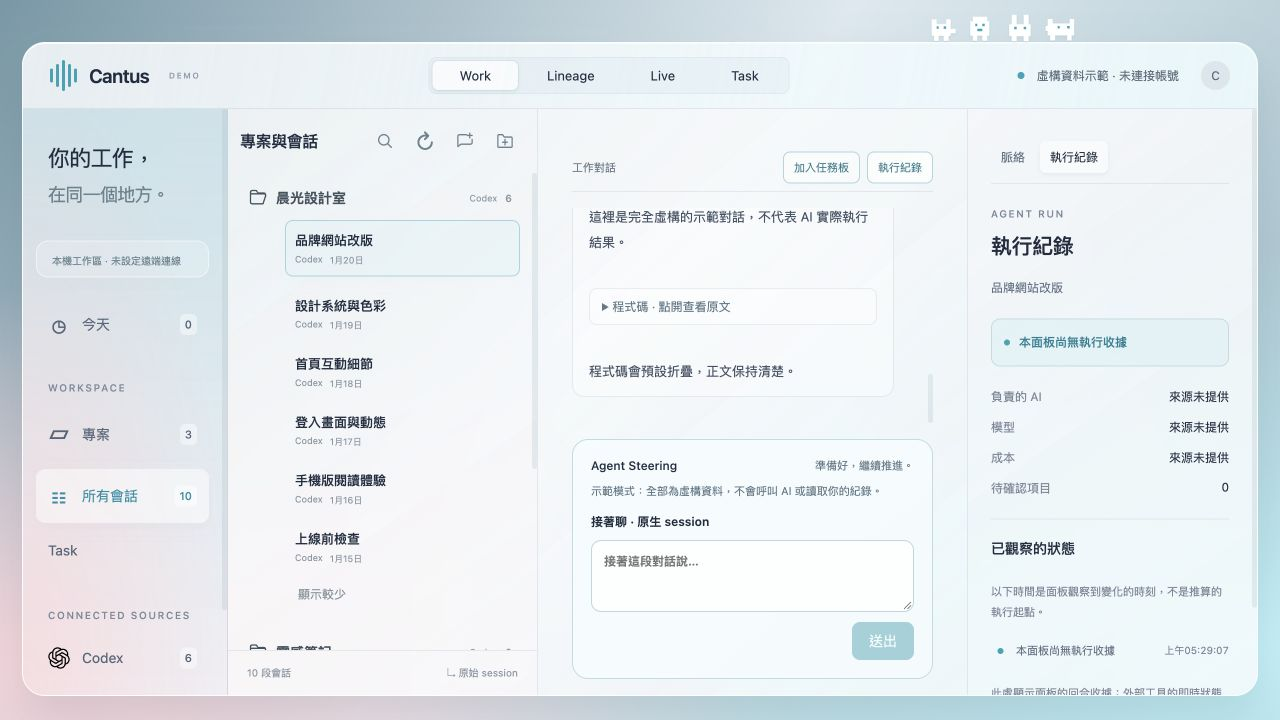
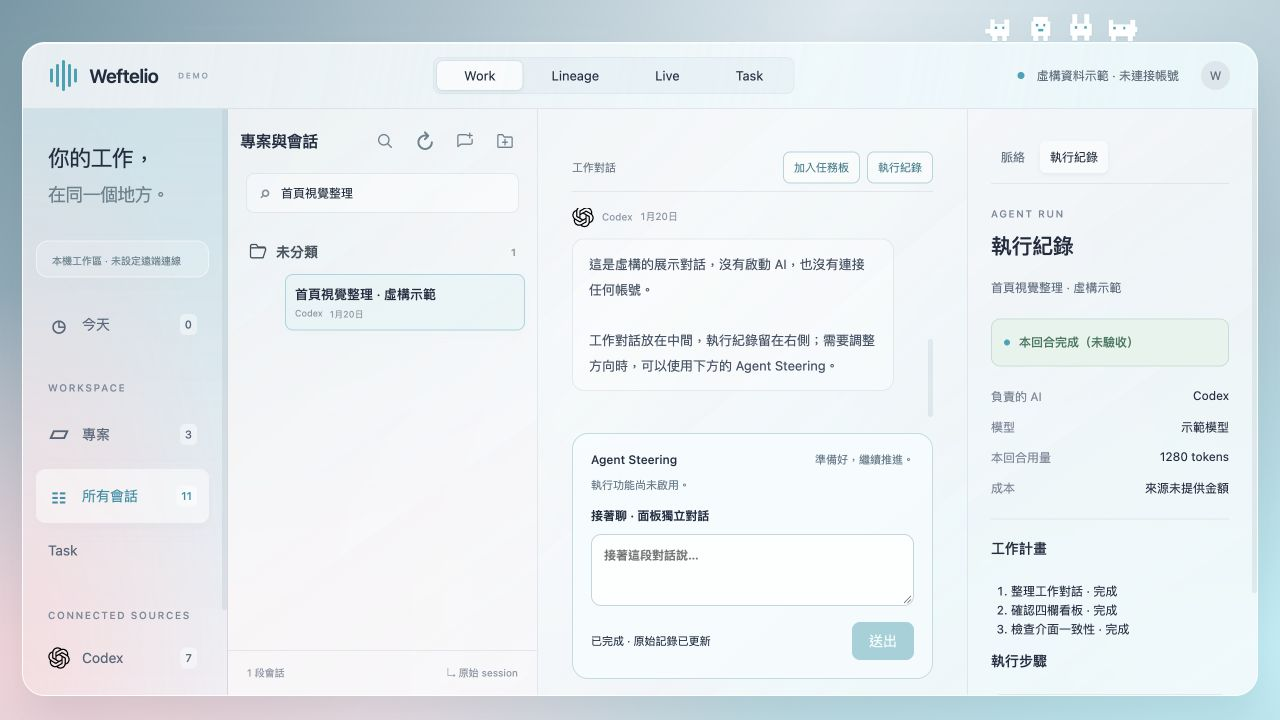
Rename the project to Weftelio and refresh all showcase images

diff --git a/cloud/login.html b/cloud/login.html
@@ -4,7 +4,7 @@
   <meta charset="utf-8">
   <meta name="viewport" content="width=device-width,initial-scale=1">
   <meta name="theme-color" content="#e9f1f3">
-  <title>Cantus · 登入</title>
+  <title>Weftelio · 登入</title>
   <link rel="stylesheet" href="/login.css">
 </head>
 <body>
@@ -13,14 +13,14 @@
   <main class="entry">
     <header class="brand">
       <div class="brand-mark" aria-hidden="true"><svg xmlns="http://www.w3.org/2000/svg" viewBox="0 0 96 157" role="img" aria-labelledby="title desc" shape-rendering="geometricPrecision">
-  <title id="title">Cantus one-colour panel 04 mark</title>
-  <desc id="desc">The selected Cadence Weave silhouette in Cantus teal.</desc>
+  <title id="title">Weftelio one-colour panel 04 mark</title>
+  <desc id="desc">The selected Cadence Weave silhouette in Weftelio teal.</desc>
   <path d="M 39.852 4.033 C 41.001 4.116 41.880 5.920 42.319 7.466 C 42.757 9.013 42.523 11.364 42.483 13.312 C 42.442 15.261 42.607 17.380 42.076 19.157 C 41.546 20.933 40.513 22.594 39.300 23.970 C 38.087 25.347 36.390 26.453 34.798 27.414 C 33.206 28.376 31.434 28.970 29.748 29.740 C 28.063 30.509 26.223 30.957 24.685 32.032 C 23.148 33.108 21.581 34.649 20.523 36.194 C 19.466 37.739 18.833 39.514 18.340 41.303 C 17.846 43.092 17.626 45.213 17.562 46.927 C 17.497 48.641 17.133 51.067 17.951 51.587 C 18.769 52.107 20.855 50.638 22.467 50.048 C 24.080 49.458 25.801 48.467 27.628 48.047 C 29.454 47.628 31.465 47.610 33.427 47.531 C 35.388 47.452 37.470 47.396 39.397 47.574 C 41.323 47.752 43.197 48.078 44.985 48.599 C 46.774 49.120 48.457 49.894 50.128 50.700 C 51.798 51.507 53.342 52.619 55.008 53.436 C 56.674 54.252 58.397 54.933 60.125 55.599 C 61.853 56.266 63.568 56.965 65.377 57.436 C 67.186 57.907 69.059 58.275 70.980 58.427 C 72.900 58.579 75.049 58.695 76.900 58.347 C 78.750 58.000 80.412 57.120 82.082 56.342 C 83.753 55.565 85.407 54.251 86.922 53.680 C 88.436 53.109 90.407 52.128 91.170 52.916 C 91.933 53.704 91.482 56.507 91.500 58.409 C 91.517 60.311 91.816 62.563 91.273 64.328 C 90.729 66.093 89.538 67.741 88.240 69.000 C 86.943 70.258 85.172 71.135 83.487 71.879 C 81.802 72.622 79.953 73.049 78.129 73.462 C 76.306 73.874 74.410 74.349 72.546 74.355 C 70.683 74.361 68.809 73.821 66.948 73.500 C 65.086 73.179 63.172 72.936 61.379 72.427 C 59.585 71.919 57.872 71.215 56.186 70.448 C 54.499 69.680 52.937 68.612 51.260 67.821 C 49.584 67.030 47.886 66.290 46.126 65.699 C 44.367 65.108 42.554 64.621 40.703 64.275 C 38.852 63.929 36.896 63.575 35.019 63.625 C 33.142 63.675 31.236 64.154 29.442 64.572 C 27.648 64.991 25.917 66.328 24.257 66.138 C 22.598 65.948 21.013 64.517 19.485 63.432 C 17.957 62.348 16.515 60.808 15.090 59.629 C 13.664 58.450 12.319 57.605 10.932 56.359 C 9.544 55.114 7.966 53.650 6.766 52.157 C 5.566 50.663 4.275 49.179 3.731 47.400 C 3.187 45.621 3.517 43.462 3.500 41.483 C 3.483 39.504 3.327 37.402 3.630 35.524 C 3.934 33.645 4.672 31.947 5.323 30.212 C 5.973 28.477 6.580 26.722 7.531 25.114 C 8.483 23.506 9.729 21.987 11.032 20.564 C 12.335 19.141 13.835 17.740 15.350 16.574 C 16.865 15.409 18.466 14.418 20.120 13.573 C 21.774 12.727 23.553 12.184 25.274 11.500 C 26.995 10.816 28.754 10.223 30.445 9.467 C 32.137 8.711 33.855 7.872 35.422 6.966 C 36.990 6.060 38.702 3.949 39.852 4.033 Z" fill="#00AEB9"/>
   <path d="M 4.222 62.392 C 4.901 62.159 6.348 64.744 7.608 66.047 C 8.867 67.349 10.390 68.904 11.779 70.207 C 13.168 71.510 15.157 72.415 15.941 73.864 C 16.725 75.313 16.333 77.172 16.482 78.902 C 16.631 80.632 16.059 83.516 16.835 84.245 C 17.611 84.974 19.616 83.863 21.136 83.275 C 22.657 82.687 24.249 81.343 25.958 80.715 C 27.667 80.087 29.567 79.852 31.393 79.507 C 33.218 79.162 35.071 78.646 36.911 78.645 C 38.751 78.644 40.597 79.178 42.432 79.500 C 44.267 79.822 46.153 80.068 47.921 80.576 C 49.690 81.083 51.341 81.873 53.041 82.544 C 54.741 83.216 56.413 83.955 58.123 84.603 C 59.833 85.252 61.516 85.965 63.299 86.436 C 65.083 86.907 66.925 87.264 68.824 87.427 C 70.723 87.591 72.809 87.618 74.694 87.415 C 76.578 87.211 78.429 86.865 80.128 86.207 C 81.827 85.549 83.468 84.451 84.887 83.469 C 86.305 82.486 87.626 80.265 88.639 80.312 C 89.652 80.358 90.507 82.241 90.967 83.750 C 91.427 85.259 91.515 87.522 91.399 89.365 C 91.283 91.209 91.119 93.201 90.273 94.811 C 89.427 96.421 87.777 97.856 86.323 99.025 C 84.870 100.194 83.229 101.099 81.552 101.825 C 79.875 102.552 78.121 103.118 76.263 103.385 C 74.405 103.652 72.305 103.581 70.406 103.427 C 68.506 103.274 66.679 102.873 64.869 102.466 C 63.059 102.059 61.283 101.570 59.547 100.985 C 57.811 100.400 56.152 99.629 54.453 98.953 C 52.755 98.277 51.097 97.504 49.357 96.928 C 47.617 96.353 45.797 95.945 44.013 95.501 C 42.228 95.058 40.424 94.424 38.650 94.266 C 36.876 94.108 35.151 94.310 33.369 94.554 C 31.588 94.797 29.653 95.152 27.959 95.726 C 26.265 96.301 24.714 98.192 23.205 98.000 C 21.697 97.807 20.317 95.584 18.907 94.572 C 17.496 93.561 16.210 91.938 14.743 91.930 C 13.276 91.922 11.562 93.477 10.105 94.525 C 8.648 95.572 7.075 97.838 6.003 98.215 C 4.931 98.593 4.089 97.963 3.672 96.789 C 3.255 95.616 3.529 93.099 3.500 91.174 C 3.471 89.249 3.500 87.218 3.500 85.239 C 3.500 83.261 3.500 81.283 3.500 79.304 C 3.500 77.326 3.494 75.345 3.500 73.369 C 3.506 71.393 3.416 69.275 3.536 67.446 C 3.657 65.616 3.543 62.625 4.222 62.392 Z" fill="#00AEB9"/>
   <path d="M 15.776 105.292 C 16.777 105.618 16.991 108.356 17.464 110.069 C 17.936 111.783 17.991 113.846 18.612 115.574 C 19.233 117.303 20.024 119.041 21.188 120.443 C 22.352 121.844 24.043 122.967 25.597 123.985 C 27.150 125.004 28.925 125.588 30.510 126.555 C 32.095 127.521 33.761 128.501 35.106 129.785 C 36.452 131.070 37.706 132.642 38.583 134.260 C 39.460 135.879 40.051 137.638 40.370 139.498 C 40.690 141.358 40.528 143.528 40.500 145.421 C 40.472 147.314 40.894 150.126 40.203 150.857 C 39.512 151.589 37.790 150.434 36.353 149.810 C 34.917 149.185 33.199 147.991 31.587 147.109 C 29.975 146.227 28.332 145.346 26.682 144.519 C 25.032 143.693 23.330 142.990 21.686 142.150 C 20.041 141.310 18.414 140.429 16.814 139.480 C 15.215 138.531 13.570 137.658 12.089 136.458 C 10.608 135.258 9.090 133.779 7.926 132.281 C 6.763 130.784 5.818 129.164 5.106 127.472 C 4.393 125.781 3.789 123.959 3.652 122.132 C 3.515 120.304 3.637 118.209 4.284 116.507 C 4.932 114.805 6.340 113.318 7.536 111.919 C 8.731 110.520 10.086 109.219 11.459 108.114 C 12.833 107.010 14.775 104.966 15.776 105.292 Z" fill="#00AEB9"/>
   <path d="M 32.582 105.899 C 33.067 105.320 35.794 106.216 37.533 106.504 C 39.272 106.791 41.254 107.094 43.017 107.624 C 44.781 108.154 46.457 108.893 48.112 109.685 C 49.767 110.476 51.296 111.572 52.947 112.373 C 54.598 113.175 56.314 113.819 58.017 114.495 C 59.720 115.170 61.384 115.939 63.165 116.427 C 64.945 116.916 66.796 117.262 68.699 117.427 C 70.602 117.593 72.691 117.612 74.584 117.420 C 76.477 117.227 78.350 116.919 80.057 116.270 C 81.764 115.622 83.412 114.511 84.827 113.528 C 86.242 112.545 87.612 110.308 88.548 110.373 C 89.483 110.438 89.972 112.422 90.441 113.917 C 90.910 115.412 91.368 117.523 91.361 119.342 C 91.355 121.161 91.128 123.172 90.402 124.833 C 89.676 126.494 88.342 128.046 87.005 129.308 C 85.669 130.570 84.022 131.595 82.382 132.405 C 80.742 133.216 79.000 133.838 77.166 134.173 C 75.332 134.507 73.265 134.530 71.377 134.412 C 69.488 134.294 67.643 133.878 65.834 133.463 C 64.025 133.048 62.230 132.590 60.524 131.922 C 58.817 131.255 57.193 130.389 55.596 129.457 C 54.000 128.524 52.429 127.529 50.943 126.329 C 49.458 125.129 48.127 123.538 46.682 122.255 C 45.238 120.972 43.615 119.970 42.277 118.632 C 40.939 117.294 39.930 115.669 38.654 114.227 C 37.379 112.784 35.635 111.366 34.623 109.978 C 33.611 108.590 32.097 106.478 32.582 105.899 Z" fill="#00AEB9"/>
 </svg></div>
-      <h1>Cantus</h1>
+      <h1>Weftelio</h1>
       <p class="brand-line">眾聲並作，所託如一</p>
     </header>
     <section class="welcome" aria-labelledby="welcome-title">
@@ -28,7 +28,7 @@
       <p>你的工作，在同一個地方。</p>
     </section>
     <div class="parade-track" aria-hidden="true"><div class="creature-parade"></div></div>
-    <section class="login-card" aria-label="登入 Cantus">
+    <section class="login-card" aria-label="登入 Weftelio">
       <div class="card-heading"><span class="entry-icon" aria-hidden="true">↗</span><span>開啟你的工作空間</span><span class="entry-caption">PRIVATE WORKSPACE</span></div>
       <form>
         <label for="user">帳號</label>

diff --git a/index.html b/index.html
@@ -1,7 +1,7 @@
-<!doctype html><html lang="zh-Hant"><head><meta charset="utf-8"><meta name="viewport" content="width=device-width,initial-scale=1"><title>Cantus · 眾聲並作</title><link rel="stylesheet" href="/style.css"></head><body>
-<div class="app"><header><div class="wordmark"><span class="sound"><i></i><i></i><i></i><i></i><i></i></span>Cantus<span class="edition">WEB PREVIEW</span></div><div class="tabs" role="tablist"><button class="active" id="work">Work</button><button id="lineage">Lineage</button><button id="live">Live</button></div><div class="connection"><span class="dot"></span><span id="connection">正在讀取本機</span><span class="avatar">C</span></div></header>
+<!doctype html><html lang="zh-Hant"><head><meta charset="utf-8"><meta name="viewport" content="width=device-width,initial-scale=1"><title>Weftelio · 眾聲並作</title><link rel="stylesheet" href="/style.css"></head><body>
+<div class="app"><header><div class="wordmark"><span class="sound"><i></i><i></i><i></i><i></i><i></i></span>Weftelio<span class="edition">WEB PREVIEW</span></div><div class="tabs" role="tablist"><button class="active" id="work">Work</button><button id="lineage">Lineage</button><button id="live">Live</button></div><div class="connection"><span class="dot"></span><span id="connection">正在讀取本機</span><span class="avatar">W</span></div></header>
 <aside class="sidebar"><div class="intro">你的工作，<br><span>在同一個地方。</span></div><button class="nav" data-filter="today"><span>◷</span> 今天 <b id="todayCount">—</b></button><p class="label">WORKSPACE</p><button class="nav" data-filter="projects"><span>▱</span> 專案 <b id="projectCount">—</b></button><button class="nav active" data-filter="all"><span>☷</span> 所有會話 <b id="allCount">—</b></button><p class="label sources-label">CONNECTED SOURCES</p><button class="nav" data-filter="codex"><span class="provider-mark">C</span> Codex <b id="codexCount">—</b></button><button class="nav" data-filter="claude"><span class="provider-mark claude">✳</span> Claude <b id="claudeCount">—</b></button><div class="sidebar-bottom"><span class="dot"></span> 本機資料 · 原生續作<p>Many voices. One intent.</p></div></aside>
 <section class="list-pane"><div class="pane-heading"><div><p class="eyebrow">YOUR CONVERSATIONS</p><h2 id="listTitle">會話</h2></div><button class="icon-btn" id="refresh" title="重新讀取來源" aria-label="重新讀取來源">↻</button></div><label class="search"><span>⌕</span><input id="search" placeholder="搜尋會話、專案…" aria-label="搜尋會話"></label><div id="list" class="list"><div class="empty">正在連接原始會話…</div></div><footer><span id="listCount">讀取中</span><span>↳ 原始 session</span></footer></section>
-<main id="detail"><div class="welcome"><span class="hero-mark">C</span><p class="eyebrow">A QUIETER SPACE TO WORK</p><h1>讓每段對話，<br>回到你的工作裡。</h1><p>選擇左側的會話，查看原始對話記錄。<br>熟悉的面板，接上你已經做過的事。</p></div></main>
+<main id="detail"><div class="welcome"><span class="hero-mark">W</span><p class="eyebrow">A QUIETER SPACE TO WORK</p><h1>讓每段對話，<br>回到你的工作裡。</h1><p>選擇左側的會話，查看原始對話記錄。<br>熟悉的面板，接上你已經做過的事。</p></div></main>
 <aside class="inspector"><p class="eyebrow">CONNECTION & CONTEXT</p><h3>來源與脈絡</h3><div class="glass-card"><div class="computer"><span>▰</span></div><div><strong>本機工作區</strong><span class="badge">Local</span><p><span class="dot"></span> 本機原生連接</p></div></div><h4>已連接的來源</h4><div id="providers"></div><h4>目前會話</h4><div class="glass-card vertical" id="context"><p>選取會話後，這裡會顯示來源、專案與更新時間。</p></div><div class="privacy"><span>◇</span><div><strong>原始記錄留在原處</strong><p>不複製歷史。送出後由原工具續作並寫回同一 session；請勿在兩個視窗同時發訊。</p></div></div><details><summary>讀取範圍與限制</summary><div id="warnings"></div><p>目前接入 Codex、Claude 的本機記錄。其他 Desktop、雲端對話與遠端主機尚未接入。清單可能受讀取上限限制。</p></details></aside>
 </div><div id="toast" role="status"></div><link rel="stylesheet" href="/live.css"><script src="/platform-ui.js"></script><script src="/conversation-tree.js"></script><script src="/app.js"></script><script src="/routing-rules.js"></script><script src="/routing-ui.js"></script><script src="/native-ui.js"></script><script src="/live-ui.js"></script><link rel="stylesheet" href="/lineage.css"><script src="/pair-ui.js"></script><script src="/organize-ui.js"></script><script src="/lineage-ui.js"></script></body></html>

diff --git a/organize-ui.js b/organize-ui.js
@@ -1,4 +1,4 @@
-/* Cantus-only labels and virtual folders. Never rename or move source files. */
+/* Weftelio-only labels and virtual folders. Never rename or move source files. */
 (()=>{
  const editable=()=>window.cantusPlatform?.mode!=='cloud'||window.cantusPlatform.authenticated&&window.cantusPlatform.role==='editor';
  const menu=el('div','cantus-context-menu');menu.hidden=true;menu.setAttribute('role','menu');document.body.append(menu);
@@ -8,10 +8,10 @@
  document.addEventListener('cantus-platform-change',()=>{closeMenu();dialog.close();});document.addEventListener('cantus-login-expired',()=>{closeMenu();dialog.close();});
  async function edit({title,value='',action,id,folderId,endpoint,requester,onSaved}){
   if(!editable())return;const platform=window.cantusPlatform,generation=platform?.generation,request=requester||((url,options)=>(platform?.fetch||fetch)(url,options));
-  heading.textContent=title;field.replaceChildren();note.textContent='只修改 Cantus 顯示與分類，原始對話、專案及檔案不變。';error.textContent='';save.disabled=true;dialog.showModal();
+  heading.textContent=title;field.replaceChildren();note.textContent='只修改 Weftelio 顯示與分類，原始對話、專案及檔案不變。';error.textContent='';save.disabled=true;dialog.showModal();
   let graph,input;
   try{const response=await request(endpoint||'/api/lineage');graph=await response.json();if(!response.ok)throw Error(graph.error);if(generation!==platform?.generation||!dialog.open)return;
-   if(action==='moveFolder'){input=el('select');const original=el('option','','原始分類（不放入 Cantus 資料夾）');original.value='';input.append(original);for(const f of graph.folders||[]){const option=el('option','',f.name);option.value=f.id;input.append(option);}input.value=folderId||'';}
+   if(action==='moveFolder'){input=el('select');const original=el('option','','原始分類（不放入 Weftelio 資料夾）');original.value='';input.append(original);for(const f of graph.folders||[]){const option=el('option','',f.name);option.value=f.id;input.append(option);}input.value=folderId||'';}
    else{input=el('input');input.value=value;input.maxLength=action==='rename'?300:100;input.required=true;}
    input.setAttribute('aria-label',title);field.append(input);save.disabled=false;input.focus();input.select?.();
   }catch(e){error.textContent=e.message;return;}
@@ -25,10 +25,10 @@
  function show(e,choices){e.preventDefault();e.stopPropagation();menu.replaceChildren();for(const [label,run]of choices){const button=el('button','',label);button.type='button';button.setAttribute('role','menuitem');button.onclick=()=>{closeMenu();run();};menu.append(button);}menu.hidden=false;menu.style.left=Math.min(e.clientX,innerWidth-190)+'px';menu.style.top=Math.min(e.clientY,innerHeight-menu.offsetHeight-8)+'px';menu.firstChild?.focus();}
  document.addEventListener('contextmenu',e=>{
   if(!editable())return;const row=e.target.closest('.conversation-item'),group=e.target.closest('.conversation-group');
-  if(row){const session=catalog.sessions.find(s=>s.id===row.dataset.sessionId);if(!session)return;show(e,[['重新命名',()=>edit({title:'重新命名對話',value:name(session),action:'rename',id:session.id})],['移至資料夾',()=>edit({title:'移至 Cantus 資料夾',action:'moveFolder',id:session.id,folderId:session.cantusFolder?.id})]]);}
+  if(row){const session=catalog.sessions.find(s=>s.id===row.dataset.sessionId);if(!session)return;show(e,[['重新命名',()=>edit({title:'重新命名對話',value:name(session),action:'rename',id:session.id})],['移至資料夾',()=>edit({title:'移至 Weftelio 資料夾',action:'moveFolder',id:session.id,folderId:session.cantusFolder?.id})]]);}
   else if(group?.dataset.cantusFolderId){const folder=catalog.cantusFolders?.find(f=>f.id===group.dataset.cantusFolderId);if(folder)show(e,[['重新命名',()=>edit({title:'重新命名資料夾',value:folder.name,action:'renameFolder',id:folder.id})]]);}
  });
- const add=el('button','new-cantus-folder','＋ 新增資料夾');add.type='button';add.onclick=()=>edit({title:'新增 Cantus 資料夾',action:'createFolder'});document.querySelector('.list-pane .search').after(add);
+ const add=el('button','new-cantus-folder','＋ 新增資料夾');add.type='button';add.onclick=()=>edit({title:'新增 Weftelio 資料夾',action:'createFolder'});document.querySelector('.list-pane .search').after(add);
  const update=()=>{add.disabled=!editable();};document.addEventListener('cantus-platform-change',update);document.addEventListener('cantus-login-expired',update);update();
  window.CantusOrganize={edit,show,editable};
  // Reuse existing actions; compact controls never create a second dispatch path.

diff --git a/conversation-tree.js b/conversation-tree.js
@@ -6,7 +6,7 @@
   return '';
  }
  function project(s){
-  if(s.cantusFolder)return {key:'cantus:'+s.cantusFolder.id,name:s.cantusFolder.name,kind:'project',source:'Cantus 資料夾 · 原始資料不變',cantusFolderId:s.cantusFolder.id,order:-1};
+  if(s.cantusFolder)return {key:'cantus:'+s.cantusFolder.id,name:s.cantusFolder.name,kind:'project',source:'Weftelio 資料夾 · 原始資料不變',cantusFolderId:s.cantusFolder.id,order:-1};
   if(background(s))return {key:'background',name:'背景／測試',kind:'background',order:Infinity};
   if(s.archived)return {key:'archived',name:'已封存',kind:'archived',order:Infinity};
   if(s.projectSource==='desktop-group'||s.projectId&&s.projectName&&!s.projectSource&&s.source==='Claude Desktop')return {key:'native:'+s.provider+':'+s.projectId,name:s.projectName,kind:'project',provider:s.provider,source:'原工具專案',order:Number.isFinite(s.projectOrder)?s.projectOrder:Infinity};
@@ -18,7 +18,7 @@
  }
  function build(sessions,{query='',projects=[],folders:virtualFolders=[]}={}){
   const q=query.trim().toLowerCase(),items=new Map(),groups=new Map();
-  for(const f of virtualFolders){const key='cantus:'+f.id;groups.set(key,{key,name:f.name,kind:'project',cantusFolderId:f.id,source:'Cantus 資料夾 · 原始資料不變',order:-1,defaultExpanded:true,explicit:true,roots:[],count:0,newest:''});}
+  for(const f of virtualFolders){const key='cantus:'+f.id;groups.set(key,{key,name:f.name,kind:'project',cantusFolderId:f.id,source:'Weftelio 資料夾 · 原始資料不變',order:-1,defaultExpanded:true,explicit:true,roots:[],count:0,newest:''});}
   for(const p of projects){if(p.provider!=='codex'||p.projectSource!=='desktop-group'||!p.id)continue;const key='native:codex:'+p.id;groups.set(key,{key,name:p.name,kind:'project',provider:'codex',source:'Codex 原始專案',order:Number.isFinite(p.projectOrder)?p.projectOrder:Infinity,defaultExpanded:p.defaultExpanded===true,explicit:true,roots:[],count:0,newest:''});}
   for(const s of sessions){if(!s||typeof s.id!=='string'||items.has(s.id))continue;const p=project(s);if(!groups.has(p.key))groups.set(p.key,{...p,roots:[],count:0,newest:''});items.set(s.id,{session:s,group:p.key,children:[],parent:null,relation:s.parentRelation||'branch'});}
   for(const n of items.values()){const parent=items.get(n.session.parentId);if(parent&&parent!==n&&parent.group===n.group&&parent.session.provider===n.session.provider)n.parent=parent;}

diff --git a/app.js b/app.js
@@ -272,7 +272,7 @@ document.addEventListener('DOMContentLoaded',()=>{
  workspace.onclick=()=>workspaceSheet.showModal();
  more.onclick=()=>{permission.textContent=document.querySelector('.composer>.native-note')?.textContent||'';const editable=!!window.CantusOrganize?.editable();rename.disabled=move.disabled=!editable;infoSheet.showModal();};
  rename.onclick=()=>{const s=catalog.sessions.find(s=>s.id===selected);if(!s)return;infoSheet.close();window.CantusOrganize?.edit({title:'重新命名對話',value:name(s),action:'rename',id:s.id});};
- move.onclick=()=>{const s=catalog.sessions.find(s=>s.id===selected);if(!s)return;infoSheet.close();window.CantusOrganize?.edit({title:'移至 Cantus 資料夾',action:'moveFolder',id:s.id,folderId:s.cantusFolder?.id});};
+ move.onclick=()=>{const s=catalog.sessions.find(s=>s.id===selected);if(!s)return;infoSheet.close();window.CantusOrganize?.edit({title:'移至 Weftelio 資料夾',action:'moveFolder',id:s.id,folderId:s.cantusFolder?.id});};
  let view='list',replaying=false,historyReady=false;
  function updateHeader(){
   const picker=document.querySelector('.platform-box select');
@@ -307,7 +307,7 @@ document.addEventListener('DOMContentLoaded',()=>{
  select=async(s,options={})=>{if(media.matches&&!options.background){show('chat');heading.textContent=name(s);}const result=await priorSelect(s);if(selected===s.id){compactComposer();updateHeader();}return result;};
  document.addEventListener('cantus-work-opened',()=>{if(selected)show('chat');});
  document.addEventListener('input',e=>{if(e.target.matches('.composer textarea'))fitInput(e.target);});
- // Touch-accessible menus reuse the same Cantus-only rename and move operations.
+ // Touch-accessible menus reuse the same Weftelio-only rename and move operations.
  const observer=new MutationObserver(()=>{
   if(!media.matches)return;
   for(const row of document.querySelectorAll('.conversation-row:not([data-mobile-menu])')){

diff --git a/desktop/edition-ui.js b/desktop/edition-ui.js
@@ -2,7 +2,7 @@
 (()=>{
  const mobile=matchMedia('(max-width:780px), (max-width:1024px) and (max-height:600px) and (pointer:coarse)').matches;
  window.CantusNextDesktop=!mobile;
- if(!mobile){document.body.classList.add('cantus-next');document.title='Cantus Next · 眾聲並作';document.querySelector('.edition').textContent='NEXT · 獨立版';document.write('<link rel="stylesheet" href="/next.css">');}
+ if(!mobile){document.body.classList.add('cantus-next');document.title='Weftelio · 眾聲並作';document.querySelector('.edition').textContent='DESKTOP';document.write('<link rel="stylesheet" href="/next.css">');}
  const files=[mobile?'platform-ui.js':'desktop-platform-ui.js','conversation-tree.js','app.js','routing-rules.js','routing-ui.js',mobile?'native-ui.js':'desktop-native-ui.js',mobile?'live-ui.js':'desktop-live-ui.js','pair-ui.js','organize-ui.js',...(mobile?['lineage-ui.js']:['next-model.js','tree-ui.js','desktop-lineage-ui.js','next-ui.js'])];
  document.write(files.map(name=>'<script src="/'+name+'"><\/script>').join(''));
 })();

diff --git a/desktop/tree-ui.js b/desktop/tree-ui.js
@@ -1,4 +1,4 @@
-/* Original Cantus rendering, informed by the inspected public interaction pattern. */
+/* Original Weftelio rendering, informed by the inspected public interaction pattern. */
 (()=>{
  const ns='http://www.w3.org/2000/svg';let cleanup=()=>{};
  const make=(tag,cls,text)=>{const e=document.createElement(tag);if(cls)e.className=cls;if(text!==undefined)e.textContent=text;return e;};

diff --git a/README.md b/README.md
@@ -1,8 +1,10 @@
 <div align="center">
 
-# Cantus
+# Weftelio
 
 ### 眾聲並作，所託如一。
+
+原名 Cantus Panel，現已更名為 **Weftelio**。[改名與相容性說明](docs/RENAMING.md)
 
 讓散落在 Codex 與 Claude 裡的對話，回到同一個安靜的工作空間。
 
@@ -14,7 +16,7 @@
 
 ## 六個介面
 
-把工作空間、對話、執行中的指示、執行紀錄、工作拆分樹與任務看板，整合進同一套 Cantus。六個介面分布在 **Work、Lineage、Live、Task** 四個桌面視角裡。
+把工作空間、對話、執行中的指示、執行紀錄、工作拆分樹與任務看板，整合進同一套 Weftelio。六個介面分布在 **Work、Lineage、Live、Task** 四個桌面視角裡。
 
 | 介面 | 你可以做什麼 | 在哪裡 |
 | --- | --- | --- |
@@ -60,26 +62,26 @@ npm run start:desktop
 
 ### Task · 四欄任務看板
 
-![Cantus Task：四欄水平任務看板，顯示虛構測試任務](docs/images/desktop-task.jpg)
+![Weftelio Task：四欄水平任務看板，顯示虛構測試任務](docs/images/desktop-task.jpg)
 
 ### Work · 對話、執行中指示與執行紀錄
 
-![Cantus Work：中間為虛構對話與 Agent Steering，右側為 Agent Run 執行紀錄](docs/images/desktop-agent-run.jpg)
+![Weftelio Work：中間為虛構對話與 Agent Steering，右側為 Agent Run 執行紀錄](docs/images/desktop-agent-run.jpg)
 
 ### 視覺概念
 
-![Cantus 概念展示圖：所有名稱與對話皆為虛構](docs/images/workspace-concept.png)
+![Weftelio 概念展示圖：所有名稱與對話皆為虛構](docs/images/workspace-concept.png)
 
-> 這張圖由 AI 製作，展示視覺方向；實際介面請看上方桌面截圖及下方登入截圖。
+> AI 概念圖，用來展示視覺方向；實際介面請看上方桌面截圖與下方登入截圖。
 
 ### 登入 · 桌面
 
-![Cantus 桌面登入：空白帳密欄位與像素角色](docs/images/login-desktop.png)
+![Weftelio 桌面登入：空白帳密欄位與像素角色](docs/images/login-desktop.jpg)
 
 ### 登入 · 手機
 
 <div align="center">
-<img src="docs/images/login-mobile.png" width="320" alt="Cantus 手機登入畫面，不含帳號與密碼">
+<img src="docs/images/login-mobile.jpg" width="320" alt="Weftelio 手機登入畫面，不含帳號與密碼">
 </div>
 
 四隻像素小角色陪你進入工作區；開啟系統「減少動態效果」時會停止動態。截圖只展示空白表單，沒有任何登入資料。
@@ -89,8 +91,8 @@ npm run start:desktop
 需要 **Node.js 24 或更新版本**。沒有需要下載的 npm 套件；來源讀取元件已放在 `vendor/`。
 
 ```bash
-git clone https://github.com/arumwu/cantus-panel.git
-cd cantus-panel
+git clone https://github.com/arumwu/weftelio.git
+cd weftelio
 npm run start:desktop
 ```
 
@@ -147,6 +149,6 @@ docs/                           設定、隱私、展示素材
 
 ## 授權與聲明
 
-Cantus 目前未提供開源授權（`UNLICENSED`）；公開可見與允許自由再利用是不同的事。第三方元件沿用其原始 MIT 授權，見 [第三方聲明](vendor/session-exporter/NOTICE) 與 [LICENSE](vendor/session-exporter/LICENSE)。
+Weftelio 目前未提供開源授權（`UNLICENSED`）；公開可見與允許自由再利用是不同的事。第三方元件沿用其原始 MIT 授權，見 [第三方聲明](vendor/session-exporter/NOTICE) 與 [LICENSE](vendor/session-exporter/LICENSE)。
 
 這是獨立專案，並非 OpenAI 或 Anthropic 官方產品。Codex 與 Claude 名稱及商標屬於各自權利人。

diff --git a/docs/SHOWCASE.md b/docs/SHOWCASE.md
@@ -1,9 +1,11 @@
-# 展示素材
+# Weftelio 展示素材
 
-`images/workspace-concept.png`：imagegen 內建工具生成，使用空白登入截圖作為色彩與氛圍參考。不是程式畫面的截圖。
+`images/desktop-task.jpg`、`images/desktop-agent-run.jpg`：從 Weftelio 桌面版擷取的實際畫面，僅使用虛構示範資料，不連接帳號、不啟動 AI。
 
-`images/login-desktop.png`、`images/login-mobile.png`：真實登入版型截圖，欄位皆空白。
+`images/login-desktop.jpg`、`images/login-mobile.jpg`：Weftelio 真實登入版型，帳號與密碼欄位皆空白。
 
-## 概念圖最終提示詞
+改名只更新品牌文字與品牌字母；沿用原有圖形、外框、配色與版面。`images/workspace-concept.png` 由內建 imagegen 依舊版概念圖更新，只更換兩處品牌名稱並補上 Task 頁籤；它是 AI 概念圖，不是程式截圖。舊圖保存在備份與 Git 歷史。
 
-Use case: ui-mockup. Asset type: GitHub repository showcase banner, landscape 16:9. Input image 1 is only a palette and mood reference for an existing app named Cantus. Create a beautiful editorial presentation of its conversation workspace using entirely fictional data, explicitly labelled conceptual rather than a screenshot. Calm white glass panels, very pale icy cyan and blush background, subtle slate typography, turquoise accents, exquisite spacing. At top large exact text 'Cantus' and subtitle 'Many voices. One intent.' Main centered desktop app panel front facing, header tabs 'Work', 'Lineage', 'Live'; left slim navigation with 'Workspace', 'Codex', 'Claude'; next column fictional projects 'Morning Studio', 'Story Notes', conversations 'Brand refresh', 'Design system', 'Homepage details'; main conversation pane title 'Brand refresh' with short readable synthetic messages 'Let’s give the homepage more breathing room.' and 'A clear headline. Gentle colors. Room to focus.' A small side context card says 'Demo workspace' and 'No accounts connected'. Four tiny white pixel animal mascots inspired by reference at bottom: cat penguin rabbit fox. Footer prominently and legibly says 'CONCEPT MOCKUP · FICTIONAL DATA'. Keep concept tasteful and close to calm practical software, not sci-fi. No real person names, addresses, server identifiers, IPs, emails, domains, account details, credentials or actual customer data. No claims of completed work or live AI results. Output one polished landscape raster image.
+## 概念圖更新提示詞（內建 imagegen）
+
+Use case: text-localization. Asset type: existing GitHub README concept showcase image. Input image 1 is the edit target, not a loose reference. Rename the software shown in the image from Cantus to Weftelio. Replace BOTH occurrences of the word Cantus (large top heading and small upper-left app wordmark) with the exact text 'Weftelio', spelled W e f t e l i o, preserving typography weight and color and adjusting width naturally. Update the concept app navigation from Work / Lineage / Live to Work / Lineage / Live / Task, using the existing tab style. Keep all other image elements, layout, colors, logo silhouette, icy cyan and blush background, glass app frame, fictional conversation content, four pixel mascots, English tagline 'Many voices. One intent.', and bottom 'CONCEPT MOCKUP · FICTIONAL DATA' disclaimer unchanged. No new branding design, no recoloring, no real personal data. This remains a conceptual mockup, not a screenshot.

diff --git a/docs/RENAMING.md b/docs/RENAMING.md
@@ -1,0 +1,19 @@
+# Weftelio 改名與相容性
+
+Weftelio 原名 Cantus Panel，自 0.5.2 起採用新名稱。GitHub 儲存庫為 [arumwu/weftelio](https://github.com/arumwu/weftelio)，npm 專案名稱為 `weftelio`。這次是品牌與專案名稱更新，六項桌面介面、外框、配色與手機版操作維持既有行為。
+
+## 舊設定繼續適用
+
+`CANTUS_*` 環境變數、`X-Cantus-Token` 等通訊標頭、瀏覽器儲存鍵、JavaScript 內部名稱與既有狀態格式保留相容；它們是技術識別，不是畫面上的品牌。啟用執行仍須明確設定 `CANTUS_MODE=local` 與 `CANTUS_ENABLE_EXECUTION=1`。
+
+`config/local.json`、`state/` 與登入憑證不會因改名而自動搬移、覆寫或公開。舊版與新版可在不同目錄、不同埠獨立運作；不要讓兩份程式同時寫入同一組狀態。既有服務不需因 GitHub 改名而重新啟動。
+
+## 已有服務時另開示範
+
+```bash
+CANTUS_PANEL_PORT=4593 CANTUS_NEXT_PORT=4594 npm run start:desktop
+```
+
+開啟 <http://127.0.0.1:4594>。預設僅有虛構示範，不讀取帳號、不呼叫 AI。原有 4589、4591 服務可以繼續使用。
+
+GitHub 改名不會重寫提交歷史，也不改變第三方元件的授權。專案仍為 `UNLICENSED`；隨附 MIT 元件的授權與來源聲明保持原樣。

diff --git a/docs/SETUP.md b/docs/SETUP.md
@@ -65,8 +65,8 @@ CANTUS_PUBLIC_HOST=panel.example.test npm run start:gateway
 
 登入入口只顯示「登出工作區」，不另設第二個登出選單。分享版只有一層登入，按下後會回到登入頁；不包含私人部署的雙層入口登入。直接使用本機示範模式時，沒有登入狀態，也不顯示登出按鈕。
 
-## 只整理 Cantus，不修改原工具
+## 只整理 Weftelio，不修改原工具
 
-在對話卡片按右鍵，可選「重新命名」或「移至資料夾」。清單上方「＋ 新增資料夾」建立虛擬分類；資料夾本身也能右鍵改名。選擇「原始分類」可移出 Cantus 資料夾。
+在對話卡片按右鍵，可選「重新命名」或「移至資料夾」。清單上方「＋ 新增資料夾」建立虛擬分類；資料夾本身也能右鍵改名。選擇「原始分類」可移出 Weftelio 資料夾。
 
 名稱、分類與關係保存在 `state/lineage/`，不改原始對話標題、專案歸屬或任何來源檔案。每台工作站各自保存分類；跨主機關係另存控制端 `state/pair/`。

diff --git a/docs/PAIR.md b/docs/PAIR.md
@@ -37,7 +37,7 @@ CANTUS_MODE=local CANTUS_ENABLE_EXECUTION=1 npm start
 
 同一派工編號不會建立兩次；逾時或重新啟動後只查收據，不自動重送。未知結果仍標示未知。回合完成不等於工作驗收。
 
-合圖中的原始關係只供查看；要編輯單台的關係或標記，切換成「目前工作區」。對話可用右鍵「重新命名」及「移至資料夾」整理；這些名稱與資料夾只存在 Cantus，不更動原始對話或磁碟目錄。
+合圖中的原始關係只供查看；要編輯單台的關係或標記，切換成「目前工作區」。對話可用右鍵「重新命名」及「移至資料夾」整理；這些名稱與資料夾只存在 Weftelio，不更動原始對話或磁碟目錄。
 
 ## 資料邊界
 
